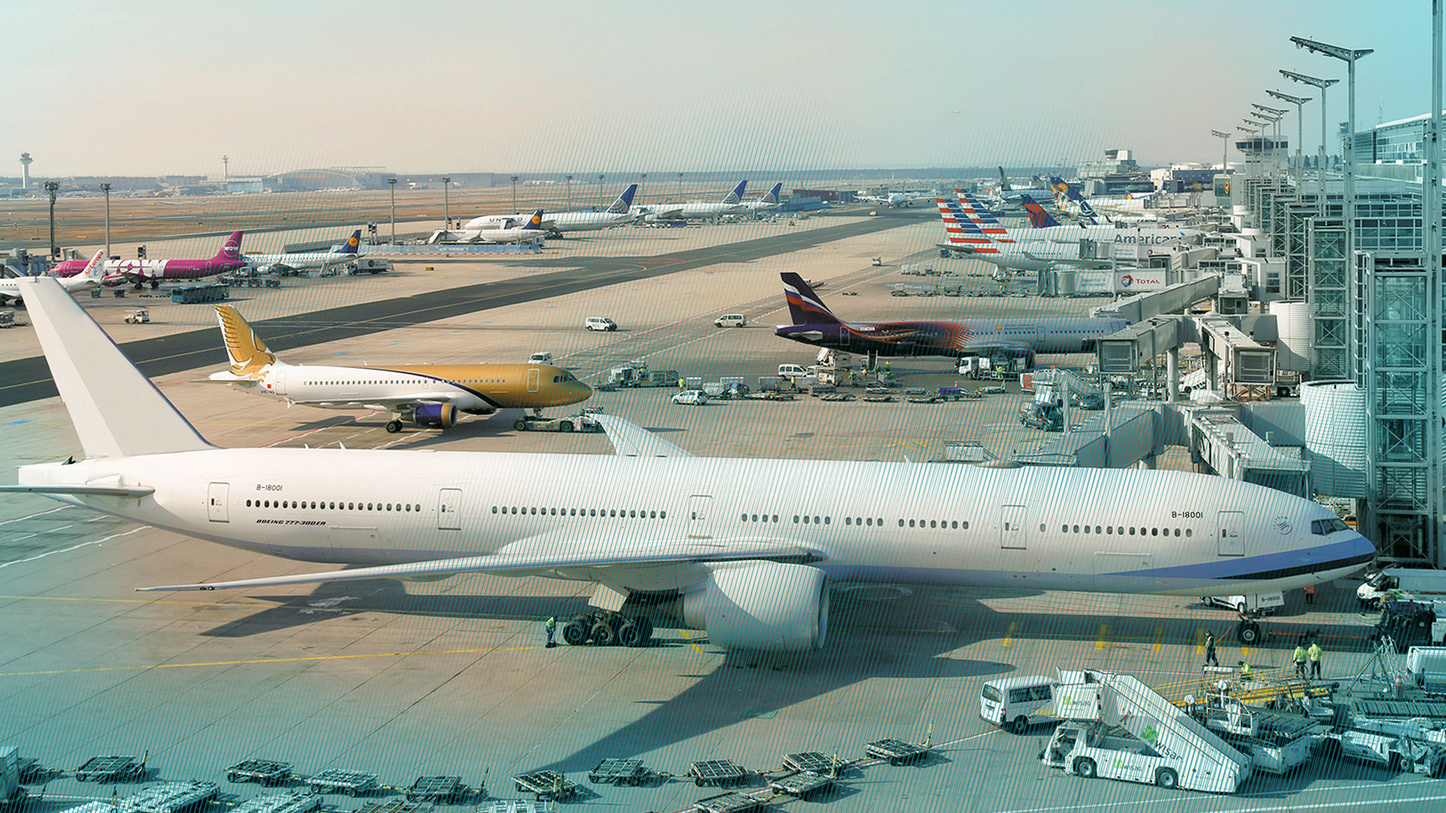
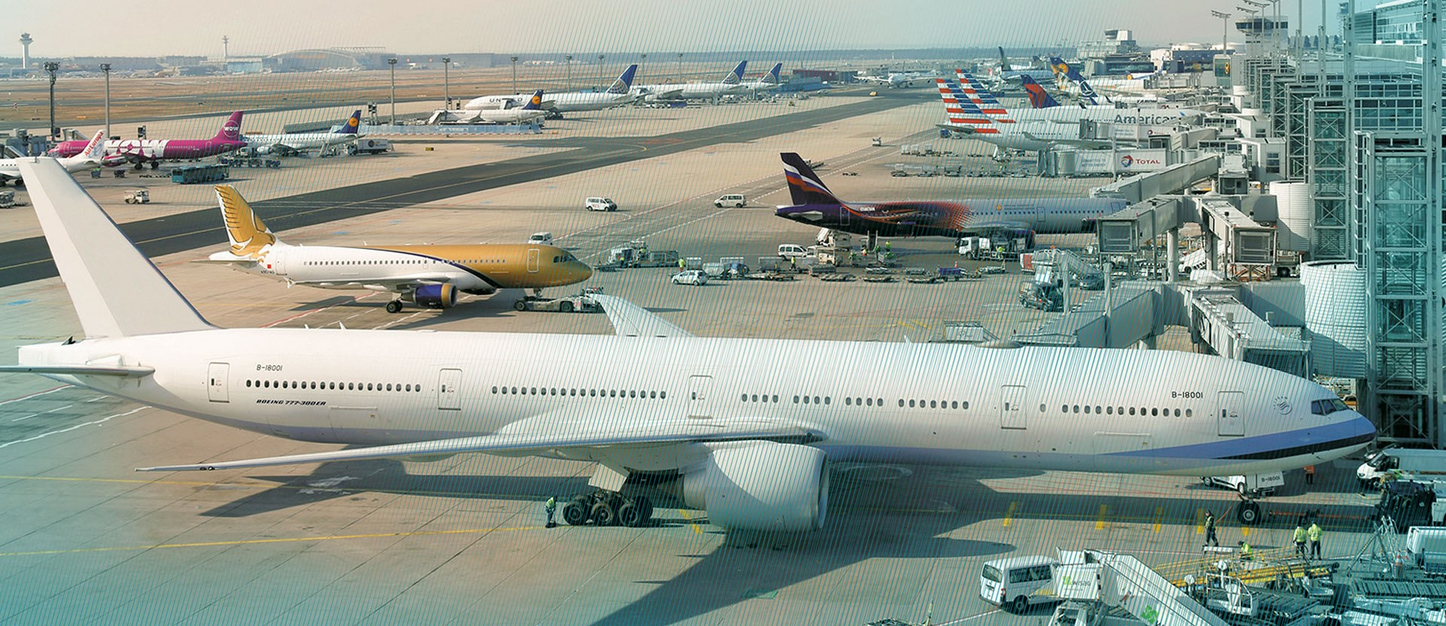
changes in image. footer ,css style ,Html

diff --git a/Airport.html b/Airport.html
@@ -6,19 +6,20 @@
     <meta name="viewport" content="width=device-width, initial-scale=1.0">
     <title>Document</title>
     <link rel="stylesheet" href="styleAirport.css">
+    <link rel="stylesheet" href="https://cdnjs.cloudflare.com/ajax/libs/font-awesome/6.5.0/css/all.min.css">
 </head>
 <body>
-    <main class="container">
+    <main class="container-fluid">
         <nav>
             <div class="Logo"><h3>کابل هوایی ډګر</h3></div>
             <div class="nav-item">
                 <ul>
-                    <li> <a href="#"> Home(اصلی صفحه)</a></li>
-                    <li> <a href="#">flights(پروازونه) </a></li>
-                    <li> <a href="#"> passenger(مسافرین)</a></li>
+                    <li> <a href="#" ><i class="fa-solid fa-house"></i> Home(اصلی صفحه)</a></li>
+                    <li> <a href="#"> <i class="fa-solid fa-plane"></i> flights(پروازونه) </a></li>
+                    <li> <a href="#"> <i class="fa-solid fa-people-line"></i> passenger(مسافرین)</a></li>
                     <li> <a href="#"> About(په اړه)</a></li>
                     <li> <a href="#"> services(خدمات)</a></li>
-                    <li> <a href="#">news(خبرونه)</a></li>
+                    <li> <a href="#"> <i class="fa-brands fa-neos"></i> news(خبرونه)</a></li>
                 </ul>
             </div>
             <div class="Login-links">
@@ -29,6 +30,33 @@
         </nav>
          
     </main>
-    <img src="Air.jpg" alt="">
+
+        <div class="slider-wrapper">
+         
+            <div class="slider-content-body">
+                <div class="slider-header">  </div>
+                <div class="slider-body"></div>
+            </div>
+        </div>
+
+        <div class="body2-image">
+            <h2>Lorem ipsum dolor sit amet consectetur.</h2>
+            <img src="logo.png" alt="">
+            
+        </div>
+
+        <footer>
+            <div class="footer-container">
+                <p>2026 AirPort Management.&copy; ټول حقوق خوندي دي.</p>
+                <div class="social-links">
+                    <a href=""><i class="fa-brands fa-facebook-f"></i></a>
+                    <a href=""><i class="fa-brands fa-linkedin"></i></a>
+                    <a href=""><i class="fa-brands fa-youtube"></i></a>
+                    <a href=""><i class="fa-brands fa-whatsapp"></i></a>
+                </div>
+            </div>
+        </footer>
+    
+
 </body>
 </html>

diff --git a/styleAirport.css b/styleAirport.css
@@ -1,22 +1,33 @@
+body{
+    margin: 0;
+    padding: 0;
+}
 
 
-.container{
+.container-fluid{
     /* border: 2px solid gray; */
     width: 100%;
-    padding: 1rem;
+    /* padding: 1rem; */
     background-color: rgb(70, 90, 201);
     color: white;
+    /* border-radius: 4px; */
+
     
 }
 nav{
     display: flex;
-    justify-content: space-around;
+    justify-content: space-between;
     align-items: center;
     flex-wrap:wrap;
+    margin-left: 5px;
+    margin-right: 5px;
+ 
 }
 nav ul{
     display: flex;
     list-style: none;
+    /* margin: 0;
+    padding: 0; */
 }
 
 nav ul li a{
@@ -33,7 +44,53 @@ nav ul li a:hover{
 .Login-links a{
 text-decoration: none;
 color: white;
-padding: 0.5rem;
-border: 2px solid slategrey;
 background-color: green;
+padding: 0.5rem;
+border-radius: 6px;
+transition: 0.5s;
+
+}
+.Login-links a:hover{
+    background-color:rgb(1, 51, 1) ;
+}
+
+
+
+#img{
+    width:100%;
+    height: auto;
+   box-shadow: 0 0 3px;
+}
+
+
+/* image */
+
+.slider-wrapper{
+    background-image:url("D:/Nematullah/Air.jpg");
+    width: 100%;
+    height: 80vh;
+    background-position: center;
+    background-size: cover;
+
+}
+
+.body2-image{
+    border: 3px solid black;
+
+}
+
+.footer-container{
+
+    background-color: rgb(14, 138, 201);
+    display:flex;
+    justify-content: center;
+    color: white;
+}
+
+.social-links{
+    display: flex;
+    justify-content: center;
+    padding: 1rem;
+
+
 }
